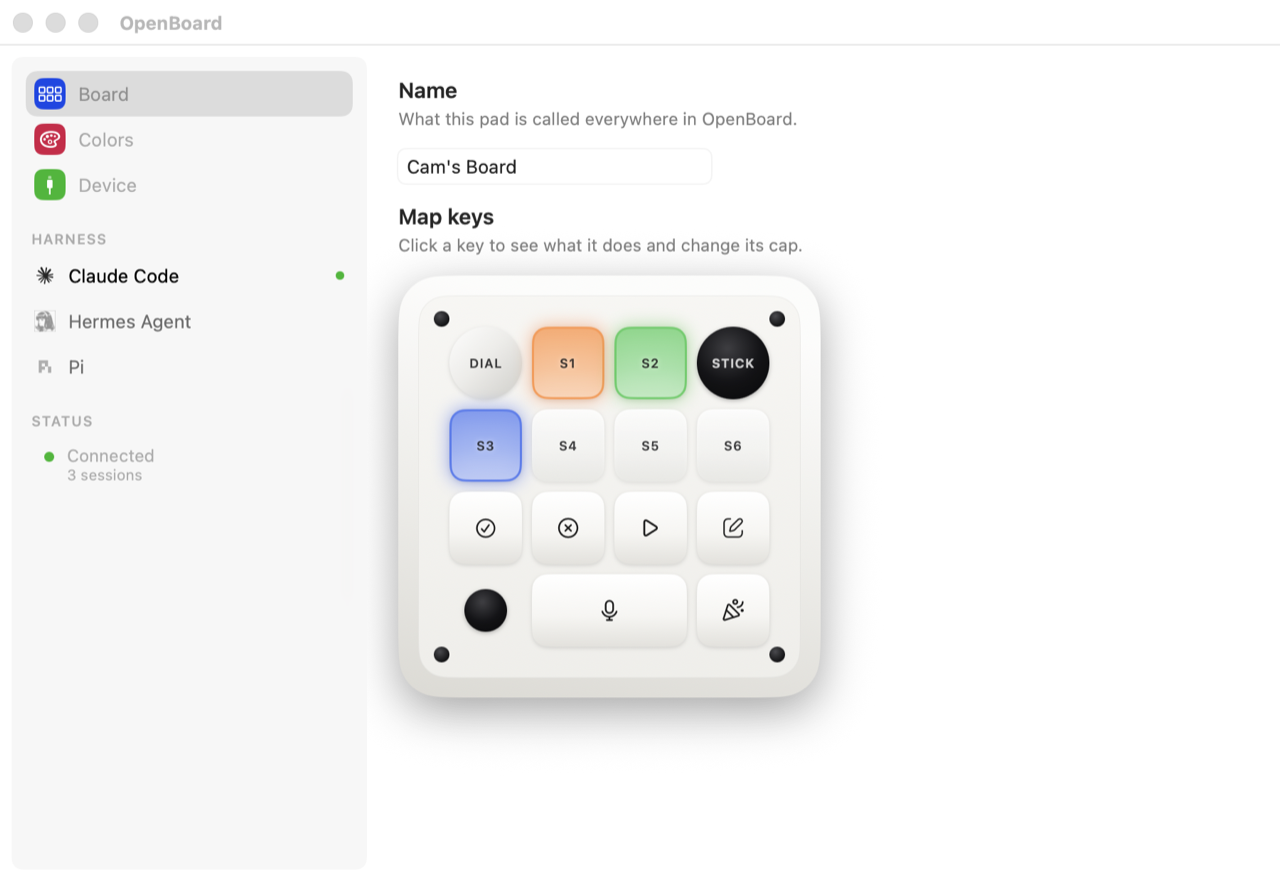
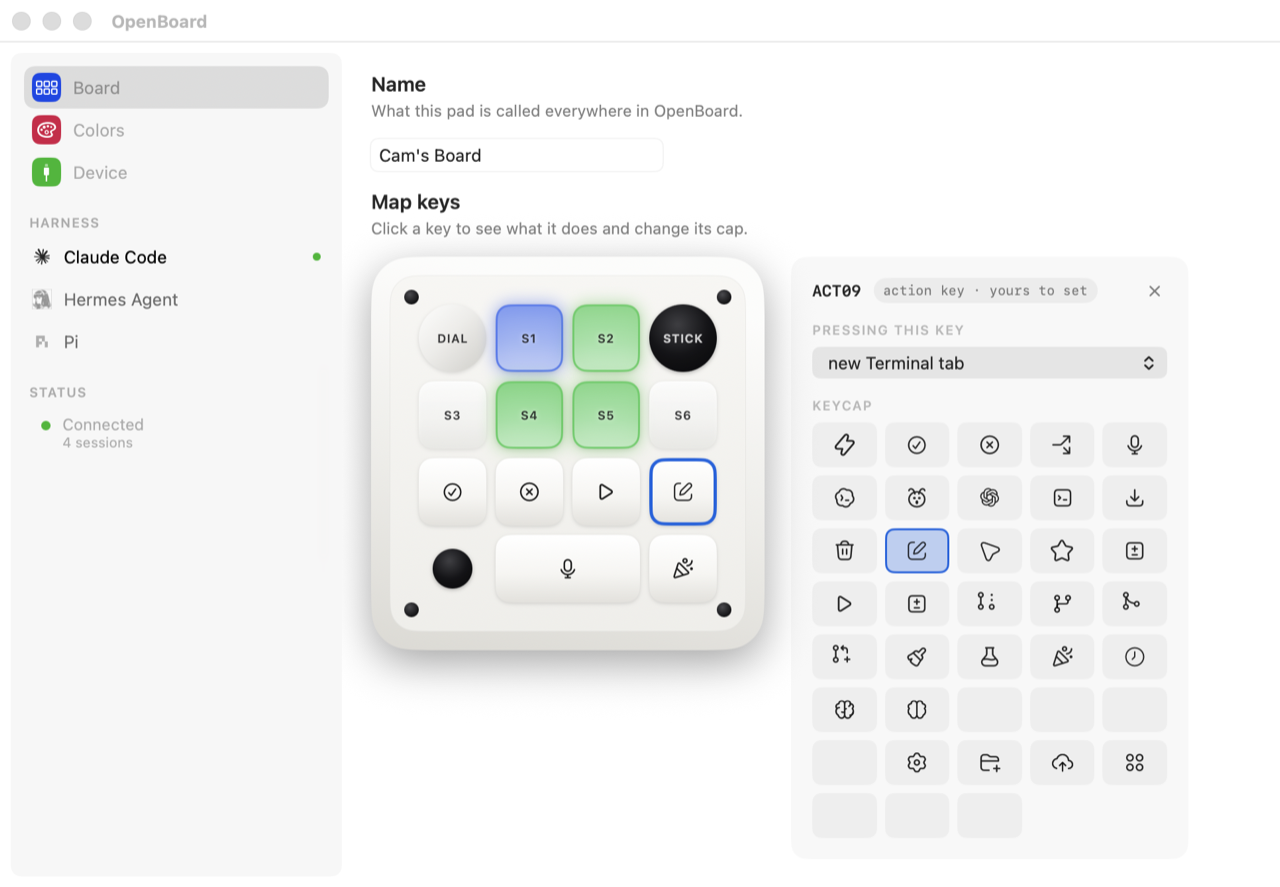
Add four more app screenshots to the OpenBoard post
Menu bar status item, Settings Colors, Settings Board, setup and Device,
each next to the section it illustrates. Refreshes settings.png, which
was retaken with a key selected.

diff --git a/src/content/blog/openboard.md b/src/content/blog/openboard.md
@@ -47,9 +47,13 @@ A session claims a key when it starts and keeps it. Keys get reused only after s
 
 This is deliberately unlike the pad's stock behavior, where the key number is your rank in a live recency sort — so typing in one chat can repaint four other keys. Status you can't trust is worse than no status.
 
-![The menu bar popover showing live sessions](/images/openboard-popover.png)
+![The menu bar popover: four live sessions, two waiting on a permission prompt](/images/openboard-popover.png)
 
 Press an Agent key to jump to that chat. In Terminal it finds the exact tab; in VS Code it reveals the panel already holding that conversation. Nothing is ever *opened* by a jump — an approximate jump beats an unrequested one that rearranges your editor.
+
+The same six states sit in the menu bar, so the board is still readable when the pad's across the room or in a bag.
+
+![The status item — six dots mirroring the pad](/images/openboard-menubar.png)
 
 ## How I built it
 
@@ -73,17 +77,19 @@ The app itself is Swift, a plain SwiftPM package with no runtime dependencies. T
 
 I didn't want to ship six opinions welded shut. My defaults are a starting point, and the settings window opens up nearly all of it.
 
-![OpenBoard settings, mapping what each key does](/images/openboard-settings.png)
-
 **The colors.** Every state — idle, working, awaiting, stalled, done, error — takes its own color, effect, brightness and speed. These are hardware colors: the swatch and the LED are the same number, so the editor offers the real presets and any hex besides, and deliberately not the system color picker, whose output is a screen color that only happens to look close.
 
 **How long a color stays.** Done holding until you come back is the default, not the law. Give it a decay in seconds if you'd rather it fade, or leave it holding.
 
-**The ring.** Which events fire a lap, in what color, at what speed — or none, if a dark ring is what you want.
+**The ring.** Which events fire a lap, in what color, at what speed — or none, if a dark ring is what you want. Ten built-in shows live on the same pane.
+
+![Settings → Colors: the ring laps and the built-in shows](/images/openboard-shows.png)
 
 **Every non-agent key.** Seven action keys, and 21 actions to put on them: approve the pending prompt with ⏎, reject with ⎋, type a snippet at the cursor, open a new Terminal tab, dictate by tap or hold or toggle, jump a tab forward or back, jump to the session on the next or previous occupied key, open the menu, open Settings, repaint the board, forget all sessions, everything off, the four arrows, and fun mode.
 
 A good half of those aren't things a key remapper can hand you, whatever software you point at the pad. A remap sends a keystroke wherever focus happens to be. Approve has to know *which session is asking*, find that window — the exact Terminal tab, or the VS Code panel holding that conversation — and refuse to answer at all if it can't confirm what's in front of you. Same with jumping to the next occupied key: that's a fact about the board's state, not a keyboard event. Those actions only exist because something is already tracking sessions.
+
+![Settings → Board: a key selected, with its action and the keycap picker](/images/openboard-settings.png)
 
 Adding another is genuinely small. `KeyAction` is a string enum: add a case, give it a short label and a long one, and write what it does. The settings picker builds itself from `allCases`, so a new action shows up in the UI on the next build with no wiring. There's no plugin system and no config DSL — on purpose, since 21 actions is a list you read, not a language you learn. If a few more arrive and the flat picker starts to sag, it can grow groups or search. That's a UI problem, and a cheap one, which is the right kind of problem to leave until it's real.
 
@@ -108,6 +114,14 @@ It's MIT. Clone it and `mac/tools/bootstrap.sh` builds it — you don't need an 
 ```sh
 brew install --cask camwilso/tap/openboard
 ```
+
+Open it and it walks you through the rest — permissions, key order, and the Claude Code hooks. It's a checklist rather than a wizard, because two of those only take effect after OpenBoard restarts. Stop and come back whenever; it works out what's left each time.
+
+![Guided setup, three of five steps complete](/images/openboard-setup.png)
+
+Each permission gets named for what it's actually for — Input Monitoring reads the pad, Accessibility types the ⏎ and the snippets — because they're granted separately and each one missing produces a differently shaped silent failure.
+
+![Settings → Device: permissions and version](/images/openboard-device.png)
 
 Fair warning: it rides a private HID command that can change with any ChatGPT, Work Louder, or firmware update. It's unofficial and experimental, and it isn't affiliated with or endorsed by OpenAI, Anthropic, or Work Louder.
 
